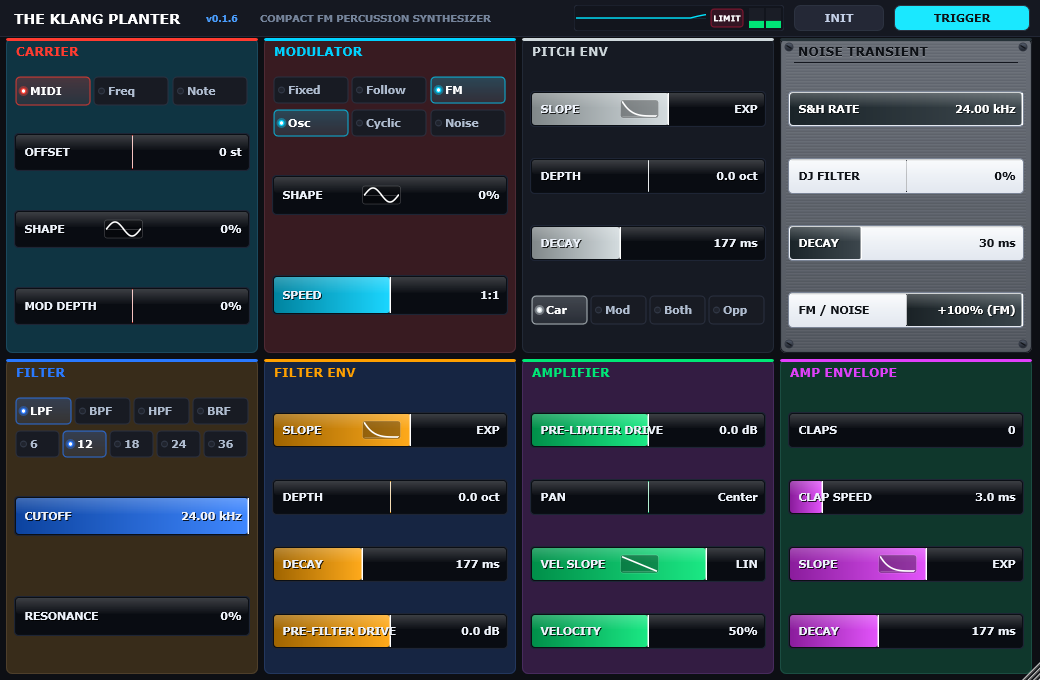
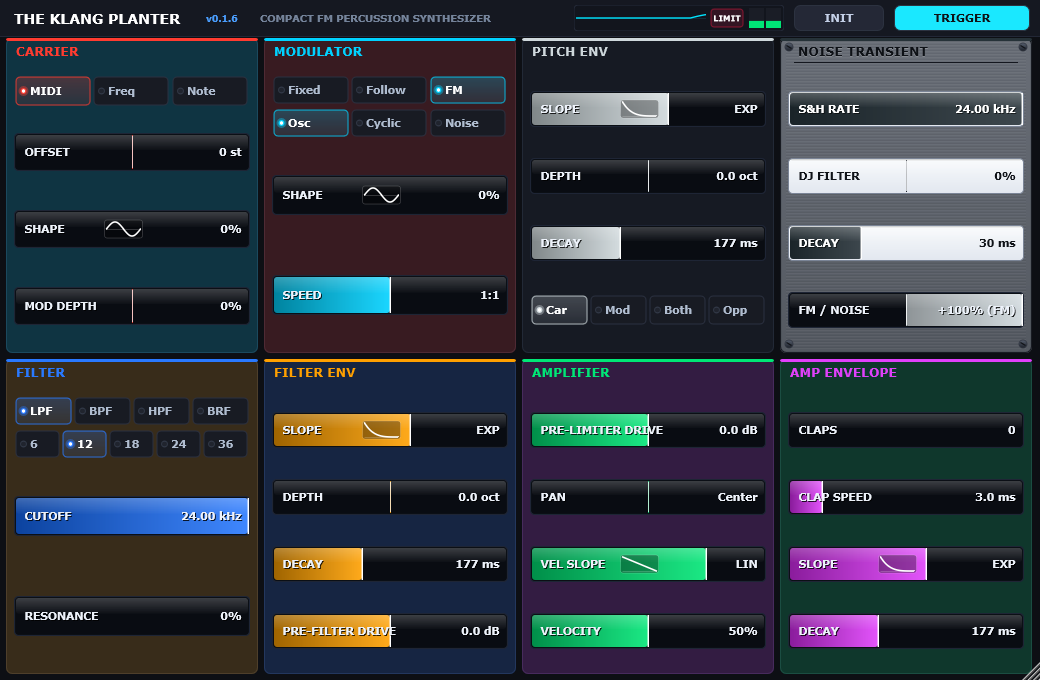
Fix Pitch Envelope destination routing, invert Crossfader slider styling, and add admin deployment batch script

Changed region(s): [[0.7385, 0.4324, 0.9846, 0.4941]]

diff --git a/source/UIComponents.cpp b/source/UIComponents.cpp
@@ -1820,7 +1820,7 @@ void ModuleCardComponent::setKnobsLightTrough(bool lightTrough) {
     knobsLightTrough = lightTrough;
     for (int i = 0; i < 4; ++i) {
         if (knobs[i]) {
-            knobs[i]->setLightTrough(knobsLightTrough);
+            knobs[i]->setLightTrough(customKnobLightTrough[i].value_or(knobsLightTrough));
         }
     }
     repaint();
@@ -1830,7 +1830,7 @@ void ModuleCardComponent::setPanelStyle(PanelStyle style) {
     panelStyle = style;
     for (int i = 0; i < 4; ++i) {
         if (knobs[i]) {
-            knobs[i]->setLightTrough(knobsLightTrough);
+            knobs[i]->setLightTrough(customKnobLightTrough[i].value_or(knobsLightTrough));
         }
     }
     repaint();
@@ -1857,15 +1857,18 @@ void ModuleCardComponent::setSelector(juce::ComboBox* box) {
     if (selectorBox) addAndMakeVisible(selectorBox);
 }
 
-void ModuleCardComponent::setKnob(int slotIndex, const juce::String& label, RotaryKnobSlider* slider) {
+void ModuleCardComponent::setKnob(int slotIndex, const juce::String& label, RotaryKnobSlider* slider,
+                                  std::optional<juce::Colour> customAccent,
+                                  std::optional<bool> customLightTrough) {
     if (slotIndex >= 0 && slotIndex < 4) {
         knobs[slotIndex] = slider;
+        customKnobLightTrough[slotIndex] = customLightTrough;
         labels[slotIndex].setText(label, juce::dontSendNotification);
         labels[slotIndex].setVisible(false);
         if (slider) {
             slider->setLabel(label);
-            slider->setAccentColour(accent);
-            slider->setLightTrough(knobsLightTrough);
+            slider->setAccentColour(customAccent.value_or(accent));
+            slider->setLightTrough(customLightTrough.value_or(knobsLightTrough));
             addAndMakeVisible(slider);
         }
     }

diff --git a/test/dsp_tests.cpp b/test/dsp_tests.cpp
@@ -1206,6 +1206,26 @@ int main() {
         assert(std::abs(planter.getBlockParameter(TbdAudio::PlanterDrumEngine::BLK_NOISE, 2) - 0.85f) < 0.001f);
         assert(std::abs(planter.getBlockParameter(TbdAudio::PlanterDrumEngine::BLK_NOISE, 3) - 0.15f) < 0.001f);
         std::cout << "PASS: Noise Decay & Crossfader parameter decoupling verified." << std::endl;
+
+        // 9. Pitch Envelope Destination Targets and Carrier Pitch Context Sync
+        planter.setDefaultParameters();
+        assert(planter.getPitchEnvTarget() == 0);
+        assert(std::abs(planter.getBlockParameter(TbdAudio::PlanterDrumEngine::BLK_PITCHENV, 3) - 0.0f) < 0.001f);
+
+        for (int tgt = 0; tgt <= 3; ++tgt) {
+            planter.setPitchEnvTarget(tgt);
+            assert(planter.getPitchEnvTarget() == tgt);
+            float expectedParam3 = static_cast<float>(tgt) / 3.0f;
+            assert(std::abs(planter.getBlockParameter(TbdAudio::PlanterDrumEngine::BLK_PITCHENV, 3) - expectedParam3) < 0.001f);
+
+            // Trigger and process audio, verifying ctx.pitchEnv1Target is retained and NOT overwritten
+            planter.trigger(1.0f);
+            planter.processStereo(pL.data(), pR.data(), 256);
+            assert(planter.getContext().pitchEnv1Target == tgt);
+            // Verify carrier base pitch is published to context for modulator following & FM tracking
+            assert(planter.getContext().carrier1PitchHz > 20.0f);
+        }
+        std::cout << "PASS: Pitch Envelope target destinations and carrier pitch context sync verified." << std::endl;
     }
 
     std::cout << "\n>>> ALL MODULAR DRUM DSP VERIFICATION TESTS PASSED SUCCESSFULLY! <<<" << std::endl;

diff --git a/source/PlanterEngine.h b/source/PlanterEngine.h
@@ -245,7 +245,8 @@ public:
         setBlockParameter(BLK_PITCHENV, 0, 0.5886f);
         setBlockParameter(BLK_PITCHENV, 1, 0.5f);
         setBlockParameter(BLK_PITCHENV, 2, 0.3806f);
-        ctx.pitchEnv1Target = 1;
+        setBlockParameter(BLK_PITCHENV, 3, 0.0f);
+        ctx.pitchEnv1Target = 0;
 
         // Noise Transient (24kHz S&H, 50% flat DJ, 30ms decay, Crossfader +100% FM = 1.0)
         setBlockParameter(BLK_NOISE, 0, 1.0f);
@@ -292,6 +293,7 @@ public:
 
     void setPitchEnvTarget(int targetIndex) {
         ctx.pitchEnv1Target = std::clamp(targetIndex, 0, 3);
+        setBlockParameter(BLK_PITCHENV, 3, static_cast<float>(ctx.pitchEnv1Target) / 3.0f);
     }
     int getPitchEnvTarget() const { return ctx.pitchEnv1Target; }
 
@@ -320,6 +322,9 @@ public:
     void processStereo(float* left, float* right, int numSamples) {
         if (numSamples <= 0) return;
         ensureBufferSize(numSamples);
+
+        // Update carrier base pitch for modulator tracking (Following and FM ratio)
+        ctx.carrier1PitchHz = carrier->getBasePitch(ctx);
 
         // 1. Pitch Envelope
         pitchEnv->processStereo(nullptr, nullptr, numSamples, ctx);

diff --git a/source/UIComponents.h b/source/UIComponents.h
@@ -4,6 +4,7 @@
 #include <vector>
 #include <memory>
 #include <functional>
+#include <optional>
 #include <cmath>
 #include <cctype>
 
@@ -333,7 +334,9 @@ public:
     void setSelector(juce::ComboBox* box);
     void setSelectorAtBottom(bool atBottom);
     void setKnobsLightTrough(bool lightTrough);
-    void setKnob(int slotIndex, const juce::String& label, RotaryKnobSlider* slider);
+    void setKnob(int slotIndex, const juce::String& label, RotaryKnobSlider* slider,
+                 std::optional<juce::Colour> customAccent = std::nullopt,
+                 std::optional<bool> customLightTrough = std::nullopt);
     void setKnobLabel(int slotIndex, const juce::String& label);
     void setNumActiveKnobs(int count) { numActiveKnobs = count; }
 
@@ -354,6 +357,7 @@ private:
     juce::ComboBox* selectorBox = nullptr;
     bool selectorAtBottom = false;
     bool knobsLightTrough = false;
+    std::optional<bool> customKnobLightTrough[4];
     juce::Label labels[4];
     RotaryKnobSlider* knobs[4] = {};
     int numActiveKnobs = 4;

diff --git a/source/PlanterEditor.cpp b/source/PlanterEditor.cpp
@@ -285,7 +285,9 @@ TheKlangPlanterAudioProcessorEditor::TheKlangPlanterAudioProcessorEditor(TheKlan
     cardNoise->setKnob(0, "S&H Rate", &noiseShRateSlider);
     cardNoise->setKnob(1, "DJ Filter", &noiseFilterSlider);
     cardNoise->setKnob(2, "Decay", &noiseDecaySlider);
-    cardNoise->setKnob(3, "FM / NOISE", &noiseCrossfadeSlider);
+    cardNoise->setKnob(3, "FM / NOISE", &noiseCrossfadeSlider, colSilver, false);
+    noiseCrossfadeSlider.setAccentColour(colSilver);
+    noiseCrossfadeSlider.setLightTrough(false);
     addAndMakeVisible(cardNoise.get());
 
     // --- PAIR 3: FILTER (Blue) & FILTER ENV (Amber) ---
